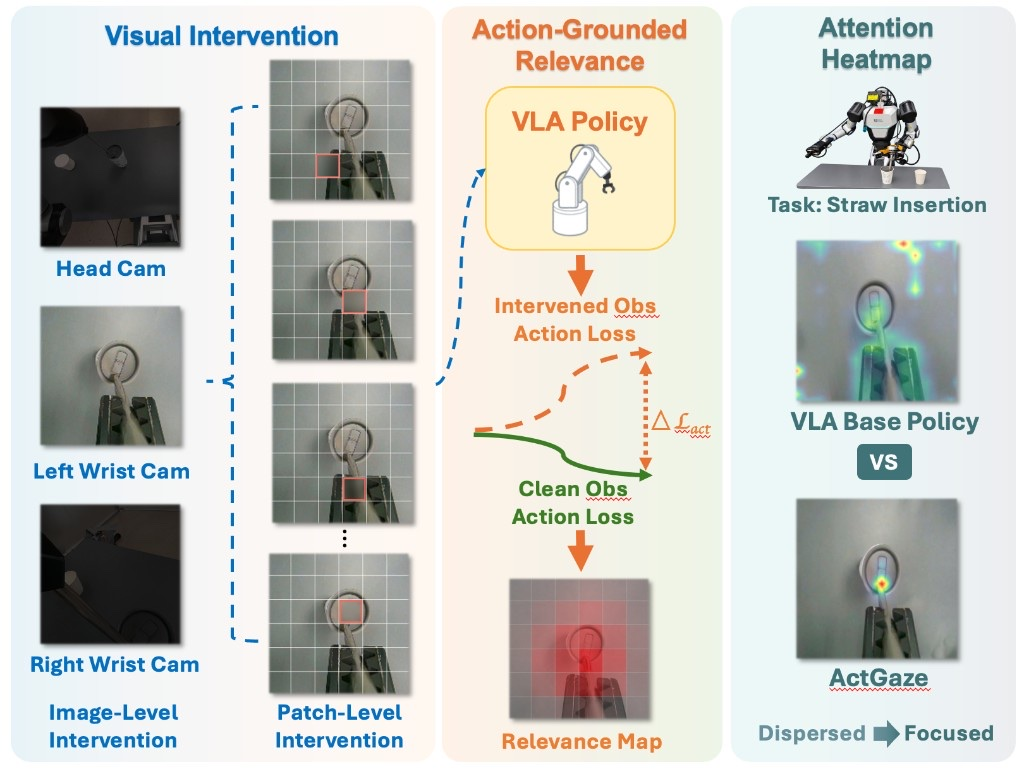
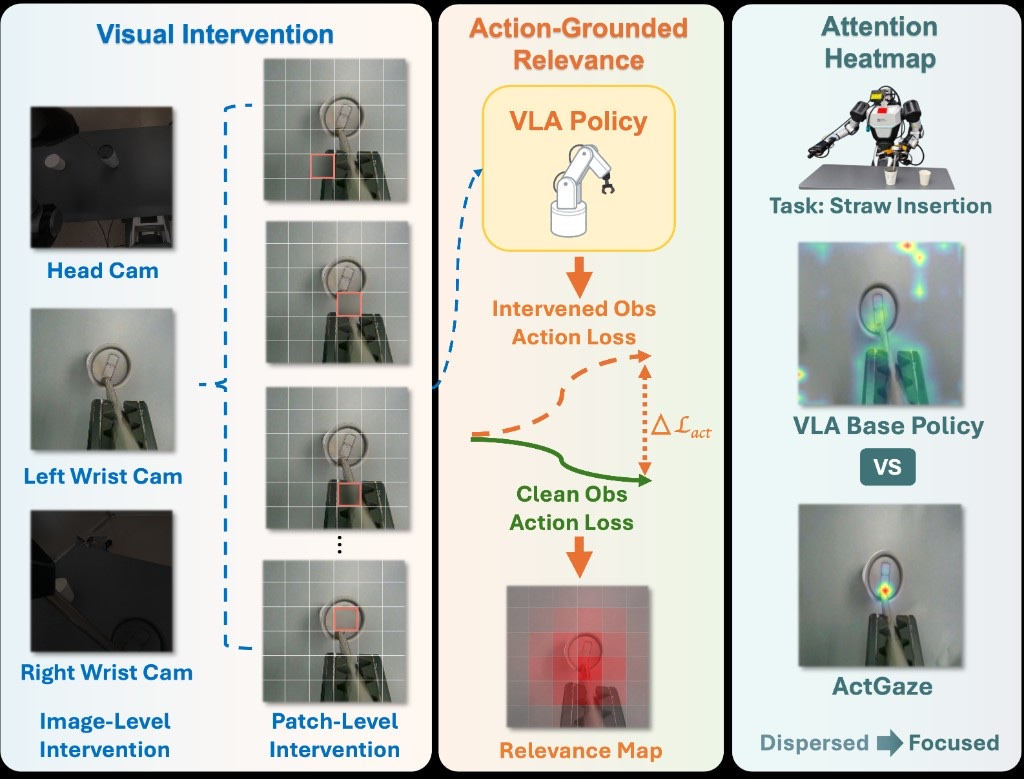
Update ActGaze publication teaser

diff --git a/index.html b/index.html
@@ -193,7 +193,7 @@
               <!-- ActGaze -->
               <tr>
                 <td style="padding:10px; width:30%; vertical-align:middle">
-                  <img src="images/actgaze.jpg?v=93a12d2" alt="Overview of the ActGaze framework" loading="lazy" decoding="async" style="width:100%; height:auto;">
+                  <img src="images/actgaze.jpg?v=20260918-1521" alt="Overview of the ActGaze framework" loading="lazy" decoding="async" style="width:100%; height:auto;">
                 </td>
 
                 <td style="padding:10px; width:70%; vertical-align:middle">
